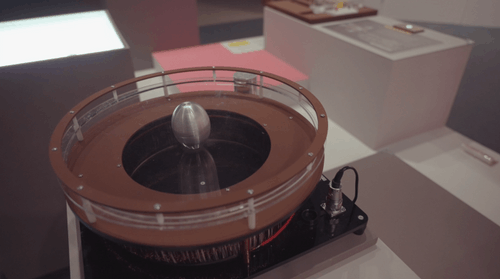
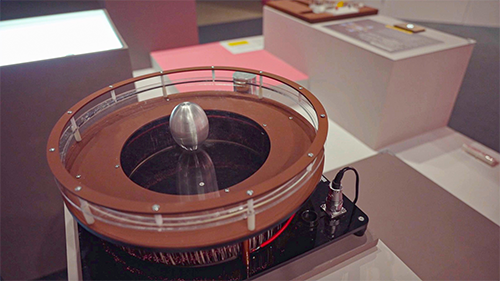
圖片解析度更新

diff --git a/ma-da.html b/ma-da.html
@@ -45,9 +45,9 @@
       <h1 class="heading-14">馬達的原理與構造</h1>
       <p class="paragraph-5">馬達的原理與結構，讓科技不再困難。馬達(又稱為電動機)是一種將電能轉化成機械能，並可再使用機械能產生動能，驅動其它裝置的設備。</p>
       <h2 class="heading-21">交流發電機</h2><img src="images/LIANGLYT_9580.jpg" loading="lazy" sizes="90vw" srcset="images/LIANGLYT_9580-p-1080.jpeg 1080w, images/LIANGLYT_9580-p-1600.jpeg 1600w, images/LIANGLYT_9580-p-2000.jpeg 2000w, images/LIANGLYT_9580-p-2600.jpeg 2600w, images/LIANGLYT_9580-p-3200.jpeg 3200w, images/LIANGLYT_9580.jpg 6000w" alt="" class="image-3">
-      <h2 class="heading-22">直流有刷馬達積木</h2><img src="images/積木.png" loading="lazy" sizes="100vw" srcset="images/積木-p-500.png 500w, images/積木-p-800.png 800w, images/積木-p-1080.png 1080w, images/積木-p-1600.png 1600w, images/積木.png 1615w" alt="">
-      <h2 class="heading-23">特斯拉蛋</h2><img src="images/特斯拉蛋.png" loading="lazy" sizes="90vw" srcset="images/特斯拉蛋-p-500.png 500w, images/特斯拉蛋-p-800.png 800w, images/特斯拉蛋-p-1080.png 1080w, images/特斯拉蛋.png 1367w" alt="" class="image-5">
-      <h2 class="heading-24">右手開掌定則</h2><img src="images/AR.png" loading="lazy" sizes="90vw" srcset="images/AR-p-500.png 500w, images/AR-p-800.png 800w, images/AR-p-1080.png 1080w, images/AR.png 1090w" alt="" class="image-6">
+      <h2 class="heading-22">直流有刷馬達積木</h2><img src="images/積木.jpg" loading="lazy" sizes="90vw" srcset="images/積木-p-500.png 500w, images/積木-p-800.png 800w, images/積木-p-1080.png 1080w, images/積木-p-1600.png 1600w, images/積木.jpg 1615w" alt="">
+      <h2 class="heading-23">特斯拉蛋</h2><img src="images/特斯拉蛋.jpg" loading="lazy" sizes="90vw" srcset="images/特斯拉蛋-p-500.png 500w, images/特斯拉蛋-p-800.png 800w, images/特斯拉蛋-p-1080.png 1080w, images/特斯拉蛋.jpg 1367w" alt="" class="image-5">
+      <h2 class="heading-24">右手開掌定則</h2><img src="images/AR.jpg" loading="lazy" sizes="90vw" srcset="images/AR-p-500.png 500w, images/AR-p-800.png 800w, images/AR-p-1080.png 1080w, images/AR.jpg 1090w" alt="" class="image-6">
     </div>
   </div>
   <script src="https://d3e54v103j8qbb.cloudfront.net/js/jquery-3.5.1.min.dc5e7f18c8.js?site=6162c1cc48e33634b49e8d20" type="text/javascript" integrity="sha256-9/aliU8dGd2tb6OSsuzixeV4y/faTqgFtohetphbbj0=" crossorigin="anonymous"></script>

diff --git a/yin-qing.html b/yin-qing.html
@@ -44,8 +44,8 @@
     <div class="div-block-16">
       <h1 class="heading-14">智慧馬達</h1>
       <p class="paragraph-5">馬達與人的互動，讓工業製造更有智慧。將馬達的大腦，和馬達放在一起的設計，具有控制、保護、監測、通訊、網路與管理等能力，可用於改進整體設備效率及生產力。</p>
-      <h2 class="heading-30">智慧製造LETS GO（機械手臂）</h2><img src="images/機械手臂.png" loading="lazy" sizes="90vw" srcset="images/機械手臂-p-500.png 500w, images/機械手臂-p-800.png 800w, images/機械手臂-p-1080.png 1080w, images/機械手臂-p-1600.png 1600w, images/機械手臂.png 1625w" alt="" class="image-3">
-      <h2 class="heading-31">智慧製造 LETS GO</h2><img src="images/LIANGLYT_9603.jpg" loading="lazy" sizes="90vw" srcset="images/LIANGLYT_9603-p-1080.jpeg 1080w, images/LIANGLYT_9603-p-1600.jpeg 1600w, images/LIANGLYT_9603-p-2000.jpeg 2000w, images/LIANGLYT_9603-p-2600.jpeg 2600w, images/LIANGLYT_9603-p-3200.jpeg 3200w, images/LIANGLYT_9603.jpg 6000w" alt="" class="image-40">
+      <h2 class="heading-30">智慧製造LETS GO（機械手臂）</h2><img src="images/機械手臂.jpg" loading="lazy" sizes="90vw" srcset="images/機械手臂-p-500.png 500w, images/機械手臂-p-800.png 800w, images/機械手臂-p-1080.png 1080w, images/機械手臂-p-1600.png 1600w, images/機械手臂.jpg 1625w" alt="" class="image-3">
+      <h2 class="heading-30">智慧製造 LETS GO</h2><img src="images/LIANGLYT_9603.jpg" loading="lazy" sizes="90vw" srcset="images/LIANGLYT_9603-p-1080.jpeg 1080w, images/LIANGLYT_9603-p-1600.jpeg 1600w, images/LIANGLYT_9603-p-2000.jpeg 2000w, images/LIANGLYT_9603-p-2600.jpeg 2600w, images/LIANGLYT_9603-p-3200.jpeg 3200w, images/LIANGLYT_9603.jpg 6000w" alt="" class="image-3">
       <h2 class="heading-32">東元智慧馬達</h2><img src="images/LIANGLYT_9562.jpg" loading="lazy" sizes="90vw" srcset="images/LIANGLYT_9562-p-1080.jpeg 1080w, images/LIANGLYT_9562-p-1600.jpeg 1600w, images/LIANGLYT_9562-p-2000.jpeg 2000w, images/LIANGLYT_9562-p-2600.jpeg 2600w, images/LIANGLYT_9562-p-3200.jpeg 3200w, images/LIANGLYT_9562.jpg 6000w" alt="" class="image-5">
     </div>
   </div>
